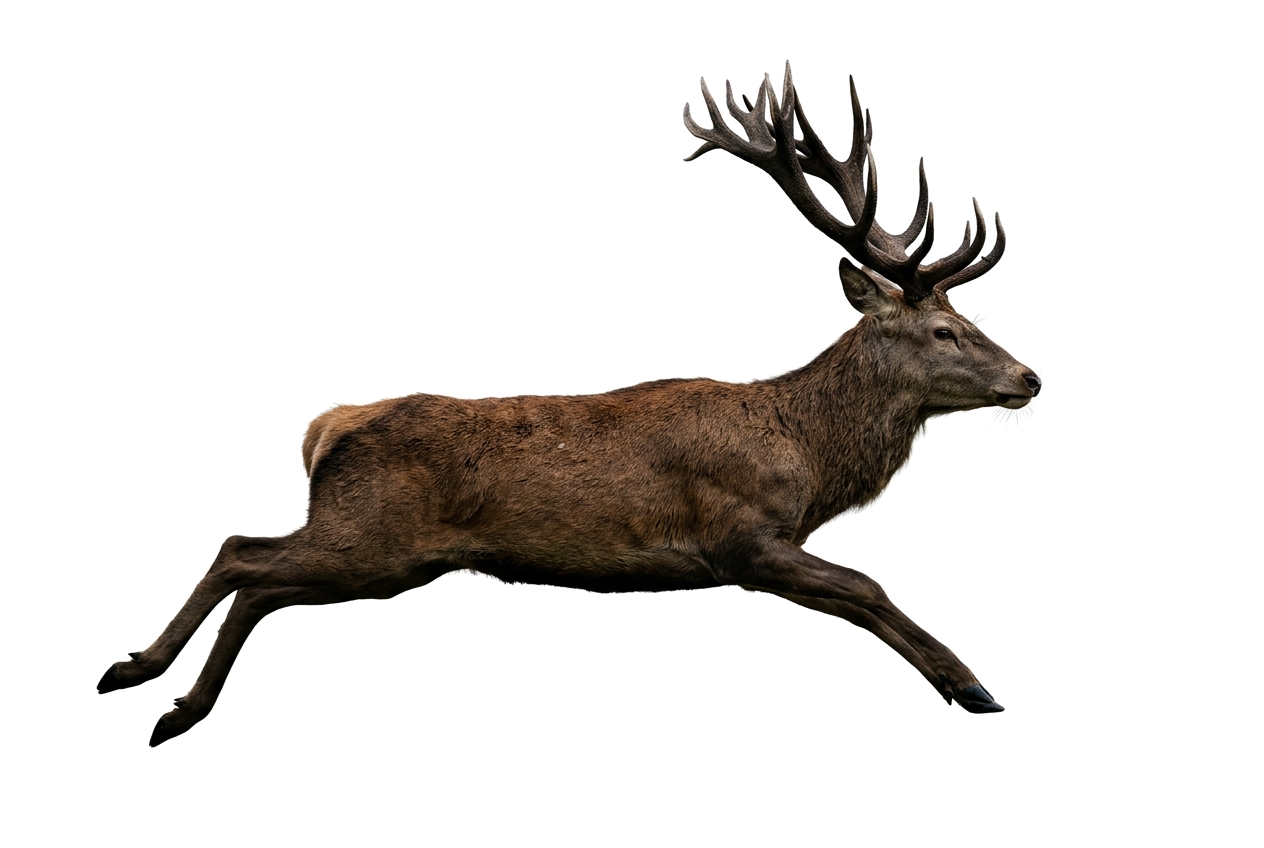
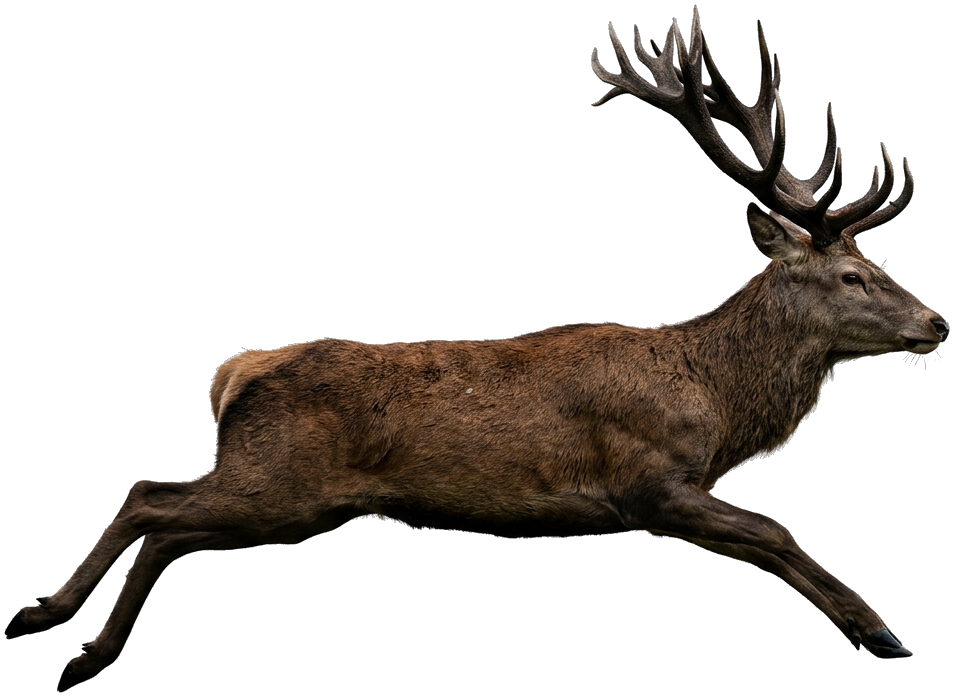
feat(game): refine photorealistic stag proportions, galloping bob, headlight rim lighting, and instant preloading

Changed region(s): [[0.0, 0.0, 1.0, 0.9943]]

diff --git a/frontend/components/game/SalmanDrivingGame.tsx b/frontend/components/game/SalmanDrivingGame.tsx
@@ -2,6 +2,16 @@
 
 import React, { useEffect, useRef, useState, useCallback } from 'react'
 import { createPortal } from 'react-dom'
+// Module-level preloads for instantaneous texture rendering
+let cachedDeerImg: HTMLImageElement | null = null
+let cachedWheelImg: HTMLImageElement | null = null
+if (typeof window !== 'undefined') {
+  cachedDeerImg = new Image()
+  cachedDeerImg.src = '/game/deer_stag.png'
+  cachedWheelImg = new Image()
+  cachedWheelImg.src = '/game/steering_wheel_hands.png'
+}
+
 import { salmanAudio } from '@/lib/salmanAudio'
 import {
   Volume2,
@@ -648,46 +658,69 @@ export function SalmanDrivingGame({ isOpen, onClose }: SalmanDrivingGameProps) {
         const roadWidthAtZ = roadTopWidth + (roadBottomWidth - roadTopWidth) * deerZScale
         const deerX = roadCenterXAtZ + (d.x * roadWidthAtZ * 0.48)
 
-        // Linear Scale Model: 0.38 at horizon -> 1.55 at bumper
-        const scale = 0.38 + d.z * 1.25
-        const deerW = 120 * scale
-        const deerH = 80 * scale
+        // True-to-life majestic stag proportions: 65px at horizon to 285px at car bumper
+        const scale = 0.35 + d.z * 1.55
+        const deerW = 165 * scale
+        const deerH = deerW * (697 / 954) // Exact 1:1 aspect ratio of cropped high-res stag sprite
 
         ctx.save()
-        ctx.translate(deerX, deerY)
+        // Subtle realistic gallop stride bobbing
+        const gallopBob = !d.isHit ? Math.sin(Date.now() * 0.015 + d.id * 3) * (4 * scale) : 0
+        ctx.translate(deerX, deerY + gallopBob)
+
         if (d.isHit) {
           ctx.rotate(d.tumbleAngle)
         }
 
-        // Direction flip: if crossing from right to left, flip horizontally
+        // Direction flip: if crossing from right to left, flip horizontally (sprite naturally faces right)
         const headDir = d.crossingSpeedX > 0 ? 1 : -1
         ctx.scale(headDir, 1)
 
-        // Draw photorealistic stag sprite image
-        if (deerImageRef.current && deerImageRef.current.complete) {
+        const activeDeerImg = deerImageRef.current || cachedDeerImg
+
+        // Draw photorealistic stag sprite image with high-beam illumination
+        if (activeDeerImg && activeDeerImg.complete && activeDeerImg.naturalWidth > 0) {
           ctx.drawImage(
-            deerImageRef.current,
+            activeDeerImg,
             -deerW * 0.5,
             -deerH,
             deerW,
             deerH
           )
+
+          // Soft golden rim-light highlight catching fur from high-beam headlights
+          if (d.z > 0.45) {
+            ctx.save()
+            ctx.globalCompositeOperation = 'source-atop'
+            const headlightGlow = ctx.createLinearGradient(0, -deerH, 0, 0)
+            headlightGlow.addColorStop(0, 'rgba(255, 255, 230, 0.28)')
+            headlightGlow.addColorStop(1, 'rgba(255, 240, 200, 0.05)')
+            ctx.fillStyle = headlightGlow
+            ctx.fillRect(-deerW * 0.5, -deerH, deerW, deerH)
+            ctx.restore()
+          }
         } else {
-          // Instant high-contrast vector fallback while asset is caching
-          const bodyColor = d.species === 'stag' ? '#F59E0B' : d.species === 'buck' ? '#D97706' : '#EA580C'
-          ctx.fillStyle = bodyColor
+          // Anatomical wild deer silhouette fallback with antlers (zero cartoon shapes)
+          ctx.fillStyle = '#D97706'
           ctx.beginPath()
-          ctx.ellipse(0, -deerH * 0.5, deerW * 0.4, deerH * 0.3, 0, 0, Math.PI * 2)
+          ctx.ellipse(0, -deerH * 0.45, deerW * 0.42, deerH * 0.28, 0, 0, Math.PI * 2)
           ctx.fill()
+          // Antlers
+          ctx.strokeStyle = '#FDE047'
+          ctx.lineWidth = Math.max(1.5, 3 * scale)
+          ctx.beginPath()
+          ctx.moveTo(deerW * 0.24, -deerH * 0.8)
+          ctx.lineTo(deerW * 0.35, -deerH * 1.05)
+          ctx.stroke()
         }
 
-        // Luminous Headlight Eye-Shine (Bright Chartreuse Glint on the deer's eye)
+        // Luminous Headlight Eye-Shine (Chartreuse glint precisely on the anatomical eye position: x=73.8%, y=21.5%)
         ctx.fillStyle = '#CCFF00'
         ctx.shadowColor = '#CCFF00'
-        ctx.shadowBlur = Math.max(4, 12 * scale)
+        ctx.shadowBlur = Math.max(4, 14 * scale)
         ctx.beginPath()
-        const eyeX = deerW * 0.32
-        const eyeY = -deerH * 0.76
+        const eyeX = deerW * 0.238
+        const eyeY = -deerH * 0.785
         ctx.arc(eyeX, eyeY, Math.max(2.0, 3.8 * scale), 0, Math.PI * 2)
         ctx.fill()
         ctx.shadowBlur = 0
